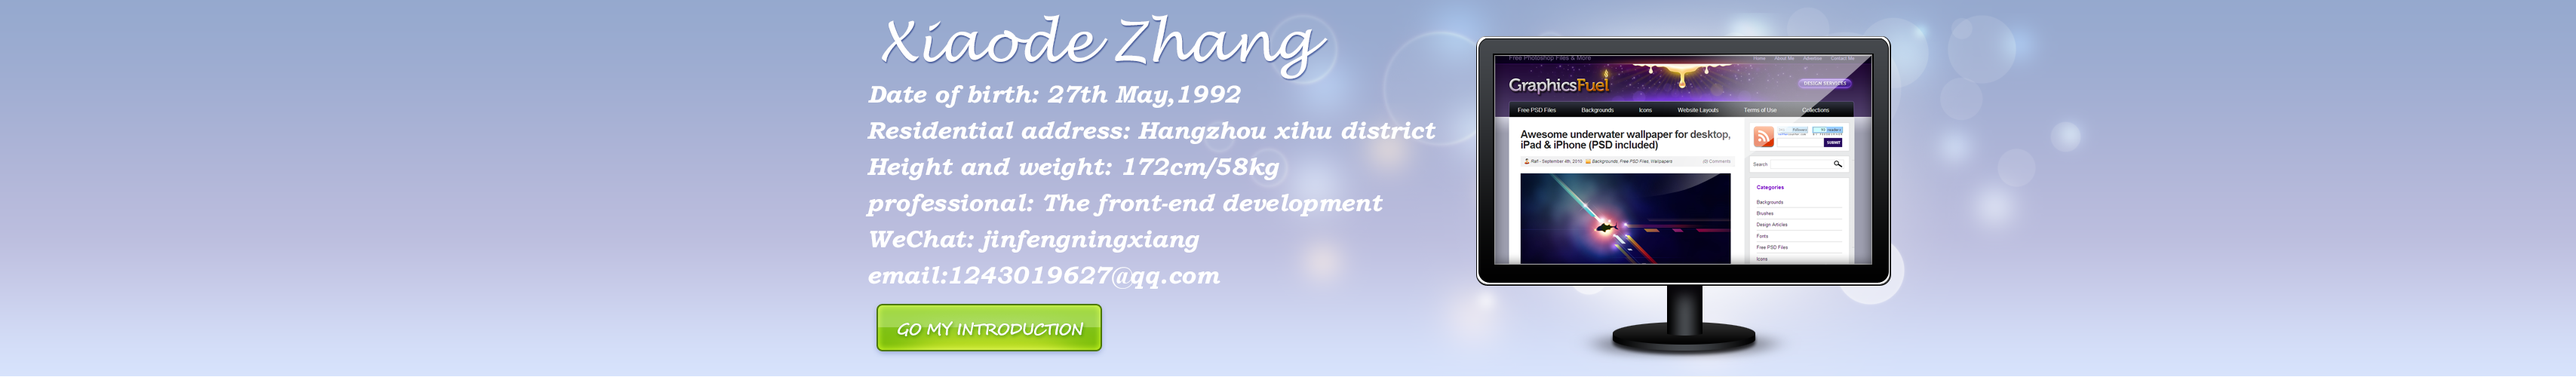
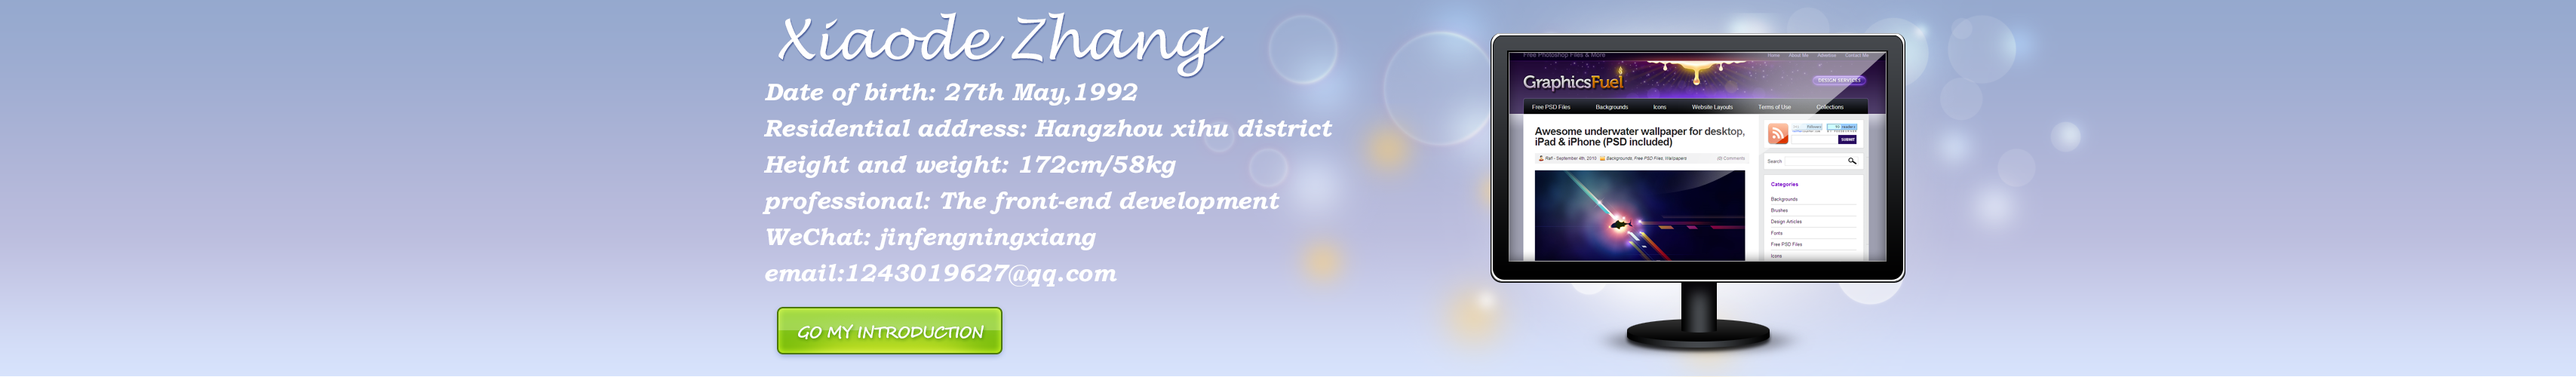
首页

diff --git a/src/view/homePage.vue b/src/view/homePage.vue
@@ -22,7 +22,7 @@ export default {
   width:1200px;height:140px;margin:0 auto;
 }
 .infoBanner{
-  height:260px;background:url(../assets/infobanner.png) no-repeat center center;
+  height:200px;background:url(../assets/infobanner.png) no-repeat center center;
   background-size:cover;
 }
 </style>

diff --git a/src/App.vue b/src/App.vue
@@ -49,7 +49,7 @@ export default {
     //   })
   },
   mounted () {
-    // this.drawBg()
+    this.drawBg()
   },
   methods: {
     ok () {
